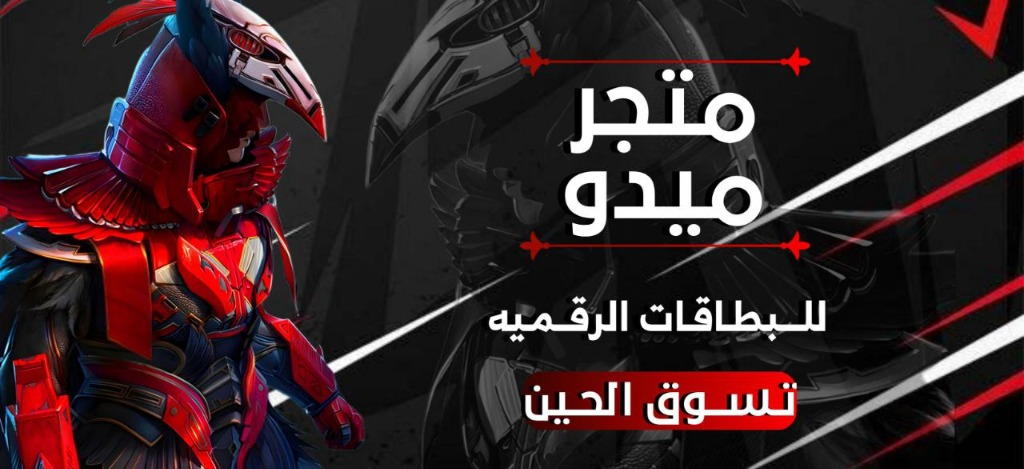
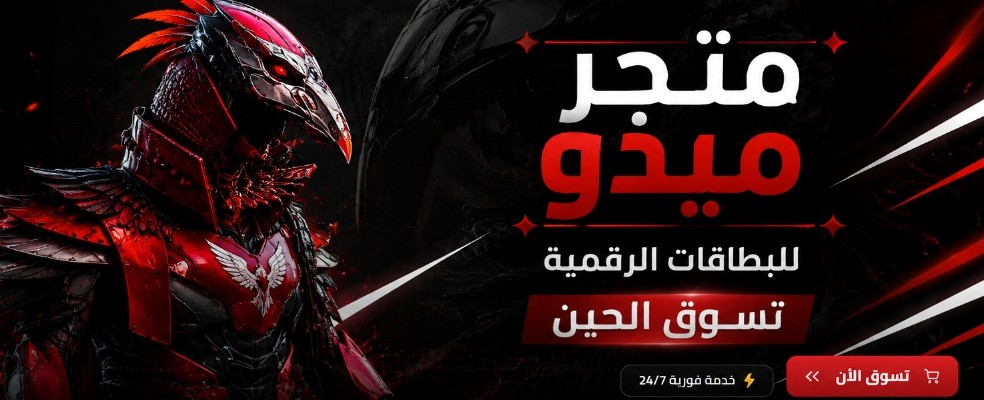
Implement exact hero design with 4 cards, trust bar, payment methods, ratings and whatsapp

diff --git a/src/components/home/hero.tsx b/src/components/home/hero.tsx
@@ -6,11 +6,10 @@ import {
   Zap,
   ShieldCheck,
   Headphones,
-  Award,
-  Sparkles,
-  Flame,
-  ArrowLeft,
-  ChevronLeft,
+  Tag,
+  Star,
+  Shield,
+  MessageCircle,
 } from "lucide-react";
 
 export function Hero() {
@@ -18,119 +17,80 @@ export function Hero() {
     {
       icon: Zap,
       title: "تنفيذ فوري وسريع",
-      subtitle: "خلال دقائق معدودة",
-      color: "from-amber-500/20 to-amber-500/5",
-      borderColor: "border-amber-500/30",
-      textColor: "text-amber-400",
+      subtitle: "يتم تنفيذ طلبك في دقائق",
     },
     {
       icon: ShieldCheck,
       title: "دفع آمن 100%",
-      subtitle: "فودافون كاش، انستاباي، فوري وبطاقات",
-      color: "from-emerald-500/20 to-emerald-500/5",
-      borderColor: "border-emerald-500/30",
-      textColor: "text-emerald-400",
+      subtitle: "جميع طرق الدفع متاحة وآمنة",
     },
     {
       icon: Headphones,
       title: "دعم فني متواصل 24/7",
-      subtitle: "فريق جاهز لخدمتك على مدار الساعة",
-      color: "from-blue-500/20 to-blue-500/5",
-      borderColor: "border-blue-500/30",
-      textColor: "text-blue-400",
+      subtitle: "فريق دعم جاهز لخدمتك",
     },
     {
-      icon: Award,
+      icon: Tag,
       title: "أفضل أسعار السوق",
-      subtitle: "عروض مستمرة وخصومات حصرية",
-      color: "from-red-500/20 to-red-500/5",
-      borderColor: "border-red-500/30",
-      textColor: "text-[#DF0112]",
+      subtitle: "أرخص الأسعار وأفضل العروض",
     },
   ];
 
+  const avatars = [
+    "https://images.unsplash.com/photo-1534528741775-53994a69daeb?w=64&h=64&fit=crop&crop=faces",
+    "https://images.unsplash.com/photo-1507003211169-0a1dd7228f2d?w=64&h=64&fit=crop&crop=faces",
+    "https://images.unsplash.com/photo-1500648767791-00dcc994a43e?w=64&h=64&fit=crop&crop=faces",
+    "https://images.unsplash.com/photo-1494790108377-be9c29b29330?w=64&h=64&fit=crop&crop=faces",
+    "https://images.unsplash.com/photo-1517841905240-472988babdf9?w=64&h=64&fit=crop&crop=faces",
+  ];
+
   return (
-    <section className="relative w-full bg-[#08090d] pt-4 pb-8 overflow-hidden">
+    <section className="relative w-full bg-[#08090d] pt-3 pb-8 overflow-hidden">
       {/* Dynamic Ambient Red Spotlight */}
-      <div className="pointer-events-none absolute top-0 start-1/2 -translate-x-1/2 w-full max-w-5xl h-[450px] bg-[radial-gradient(ellipse_at_top,_rgba(223,1,18,0.25)_0%,_rgba(223,1,18,0.06)_50%,_transparent_75%)]" />
+      <div className="pointer-events-none absolute top-0 start-1/2 -translate-x-1/2 w-full max-w-6xl h-[500px] bg-[radial-gradient(ellipse_at_top,_rgba(223,1,18,0.22)_0%,_rgba(223,1,18,0.05)_50%,_transparent_75%)]" />
 
-      <div className="relative mx-auto w-full max-w-6xl px-4 sm:px-6 lg:px-8">
+      <div className="relative mx-auto w-full max-w-7xl px-3 sm:px-5 md:px-8">
         
-        {/* Top Status Bar Tag */}
+        {/* Master Esports Hero Banner */}
         <motion.div
-          initial={{ opacity: 0, y: -10 }}
+          initial={{ opacity: 0, y: 15 }}
           animate={{ opacity: 1, y: 0 }}
-          transition={{ duration: 0.4 }}
-          className="mb-3.5 flex items-center justify-between gap-2 flex-wrap"
+          transition={{ duration: 0.5 }}
+          className="relative group rounded-2xl md:rounded-3xl overflow-hidden border border-red-500/25 bg-[#050608] shadow-[0_15px_70px_rgba(223,1,18,0.25)] hover:shadow-[0_20px_80px_rgba(223,1,18,0.38)] transition-all duration-300"
         >
-          <div className="inline-flex items-center gap-2 rounded-full border border-red-500/30 bg-red-950/40 px-3.5 py-1 text-xs font-bold text-red-300 backdrop-blur-md shadow-sm">
-            <span className="flex size-2 rounded-full bg-[#DF0112] animate-ping" />
-            <span className="flex size-2 -ms-3 rounded-full bg-[#DF0112]" />
-            <Flame className="size-3.5 text-amber-400 ms-1" />
-            <span>متجر ميدو الرسمي — شحن فوري 24/7 مع ضمان كامل</span>
-          </div>
-
           <Link
             href="/products"
-            className="inline-flex items-center gap-1.5 text-xs font-bold text-slate-300 hover:text-white transition group"
+            className="block relative w-full aspect-[984/400] overflow-hidden cursor-pointer"
+            title="متجر ميدو للبطاقات الرقمية — اضغط للتسوق"
           >
-            <span>استعرض جميع المنتجات والشدات</span>
-            <ChevronLeft className="size-4 text-[#DF0112] transition-transform group-hover:-translate-x-1" />
+            {/* eslint-disable-next-line @next/next/no-img-element */}
+            <img
+              src="/images/medo-hero-banner.jpg"
+              alt="متجر ميدو للبطاقات الرقمية - تسوق الحين"
+              className="w-full h-full object-cover transition-all duration-700 ease-out group-hover:scale-[1.012] [image-rendering:-webkit-optimize-contrast]"
+              loading="eager"
+            />
+            {/* Subtle interactive sheen */}
+            <div className="pointer-events-none absolute inset-0 bg-gradient-to-t from-red-950/20 via-transparent to-transparent opacity-0 group-hover:opacity-100 transition-opacity duration-300" />
           </Link>
         </motion.div>
 
-        {/* Master Esports Hero Banner */}
-        <motion.div
-          initial={{ opacity: 0, scale: 0.98 }}
-          animate={{ opacity: 1, scale: 1 }}
-          transition={{ duration: 0.5 }}
-          className="relative group rounded-2xl md:rounded-[2.2rem] p-[2px] bg-gradient-to-br from-red-600/70 via-red-900/30 to-red-600/70 shadow-[0_15px_70px_rgba(223,1,18,0.32)] hover:shadow-[0_20px_90px_rgba(223,1,18,0.48)] transition-all duration-500"
-        >
-          {/* Tactical Gaming Corner Accents */}
-          <div className="pointer-events-none absolute -top-1 -start-1 size-5 border-t-2 border-s-2 border-red-500 rounded-tl-lg z-20" />
-          <div className="pointer-events-none absolute -top-1 -end-1 size-5 border-t-2 border-e-2 border-red-500 rounded-tr-lg z-20" />
-          <div className="pointer-events-none absolute -bottom-1 -start-1 size-5 border-b-2 border-s-2 border-red-500 rounded-bl-lg z-20" />
-          <div className="pointer-events-none absolute -bottom-1 -end-1 size-5 border-b-2 border-e-2 border-red-500 rounded-br-lg z-20" />
-
-          <div className="relative overflow-hidden rounded-[calc(1rem-1px)] md:rounded-[calc(2.2rem-2px)] bg-[#050608]">
-            <Link
-              href="/products"
-              className="block relative w-full aspect-[1024/469] overflow-hidden cursor-pointer"
-              title="متجر ميدو للبطاقات الرقمية — اضغط للتسوق"
-            >
-              {/* eslint-disable-next-line @next/next/no-img-element */}
-              <img
-                src="/images/medo-hero-banner.jpg"
-                alt="متجر ميدو للبطاقات الرقمية - تسوق الحين"
-                className="w-full h-full object-cover transition-all duration-700 ease-out group-hover:scale-[1.012] [image-rendering:-webkit-optimize-contrast] contrast-[1.04] saturate-[1.06] brightness-[1.02]"
-                loading="eager"
-              />
-              
-              {/* Subtle Edge Vignette */}
-              <div className="pointer-events-none absolute inset-0 ring-1 ring-inset ring-white/10 rounded-[calc(1rem-1px)] md:rounded-[calc(2.2rem-2px)]" />
-              
-              {/* Interactive subtle sheen shimmer on hover */}
-              <div className="pointer-events-none absolute inset-0 bg-gradient-to-t from-red-950/20 via-transparent to-transparent opacity-0 group-hover:opacity-100 transition-opacity duration-300" />
-            </Link>
-          </div>
-        </motion.div>
-
-        {/* Feature Badges Bar */}
+        {/* 4 Feature Badges Grid */}
         <motion.div
           initial={{ opacity: 0, y: 15 }}
           animate={{ opacity: 1, y: 0 }}
           transition={{ duration: 0.5, delay: 0.15 }}
-          className="mt-5 sm:mt-6 grid grid-cols-2 lg:grid-cols-4 gap-3 sm:gap-4"
+          className="mt-4 sm:mt-5 grid grid-cols-2 lg:grid-cols-4 gap-3 sm:gap-4"
         >
           {features.map((item, idx) => {
             const Icon = item.icon;
             return (
               <div
                 key={idx}
-                className="flex items-center gap-3 sm:gap-3.5 rounded-2xl border border-white/10 bg-[#10121a]/85 p-3.5 sm:p-4 backdrop-blur-md transition-all duration-200 hover:border-red-500/40 hover:bg-[#151724] hover:-translate-y-0.5"
+                className="flex items-center gap-3 sm:gap-3.5 rounded-2xl border border-white/10 bg-[#0d0f15]/90 p-3.5 sm:p-4 backdrop-blur-md transition-all duration-200 hover:border-red-500/40 hover:bg-[#131622] hover:-translate-y-0.5"
               >
-                <div className={`flex size-10 sm:size-11 shrink-0 items-center justify-center rounded-xl bg-gradient-to-br ${item.color} border ${item.borderColor} ${item.textColor} shadow-inner`}>
-                  <Icon className="size-5" />
+                <div className="flex size-11 sm:size-12 shrink-0 items-center justify-center rounded-full bg-red-950/30 border border-red-500/30 text-[#DF0112] shadow-inner">
+                  <Icon className="size-5 sm:size-5.5" />
                 </div>
                 <div className="flex flex-col min-w-0">
                   <span className="text-xs sm:text-sm font-black text-white truncate">
@@ -144,6 +104,102 @@ export function Hero() {
             );
           })}
         </motion.div>
+
+        {/* Bottom Trust & Payment Bar */}
+        <motion.div
+          initial={{ opacity: 0, y: 15 }}
+          animate={{ opacity: 1, y: 0 }}
+          transition={{ duration: 0.5, delay: 0.25 }}
+          className="mt-4 rounded-2xl border border-white/10 bg-[#0d0f15]/90 p-3.5 sm:p-4 backdrop-blur-md flex flex-col md:flex-row items-center justify-between gap-4"
+        >
+          {/* Left in RTL: Payment Methods */}
+          <div className="flex items-center gap-3 flex-wrap justify-center md:justify-start">
+            <div className="flex items-center gap-1.5 text-slate-400 text-xs font-bold">
+              <Shield className="size-4 text-emerald-400" />
+              <span>طرق دفع مضمونة وآمنة</span>
+            </div>
+
+            <div className="flex items-center gap-1.5 flex-wrap">
+              {/* InstaPay */}
+              <div className="flex items-center justify-center px-2.5 py-1 rounded-md bg-[#4b1d6e]/90 text-white text-[11px] font-black tracking-wide border border-purple-500/30">
+                instaPay
+              </div>
+              {/* Vodafone Cash */}
+              <div className="flex items-center justify-center px-2 py-1 rounded-md bg-[#e60000] text-white text-[11px] font-black border border-red-400/40">
+                vodafone cash
+              </div>
+              {/* Fawry */}
+              <div className="flex items-center justify-center px-2.5 py-1 rounded-md bg-[#ffcc00] text-black text-[11px] font-black border border-amber-400/40">
+                Fawry
+              </div>
+              {/* Contact */}
+              <div className="flex items-center justify-center px-2.5 py-1 rounded-md bg-[#004b93] text-white text-[11px] font-black border border-blue-400/40">
+                Contact
+              </div>
+              {/* VISA */}
+              <div className="flex items-center justify-center px-2.5 py-1 rounded-md bg-[#1a1f71] text-white text-[11px] font-black tracking-wider border border-blue-300/30">
+                VISA
+              </div>
+              {/* Mastercard */}
+              <div className="flex items-center justify-center px-2 py-1 rounded-md bg-[#222329] border border-white/15">
+                <div className="flex -space-x-1.5 rtl:space-x-reverse">
+                  <span className="size-3.5 rounded-full bg-[#eb001b] inline-block opacity-90" />
+                  <span className="size-3.5 rounded-full bg-[#f79e1b] inline-block opacity-90" />
+                </div>
+              </div>
+            </div>
+          </div>
+
+          {/* Center in RTL: Ratings & Over 10,000 Customers */}
+          <div className="flex items-center gap-3.5">
+            <div className="flex items-center -space-x-2 rtl:space-x-reverse">
+              {avatars.map((img, i) => (
+                // eslint-disable-next-line @next/next/no-img-element
+                <img
+                  key={i}
+                  src={img}
+                  alt={`Customer ${i + 1}`}
+                  className="size-7 rounded-full object-cover border-2 border-[#0d0f15]"
+                />
+              ))}
+            </div>
+
+            <div className="flex flex-col items-center sm:items-start text-center sm:text-right">
+              <div className="flex items-center gap-1 text-amber-400">
+                {[...Array(5)].map((_, i) => (
+                  <Star key={i} className="size-3 fill-amber-400 text-amber-400" />
+                ))}
+              </div>
+              <span className="text-[11px] text-slate-400 font-medium">
+                تقييم 4.9 من أكثر من 10,000 عميل
+              </span>
+            </div>
+
+            <div className="flex flex-col items-center px-2.5 py-0.5 rounded-lg bg-red-950/30 border border-red-500/20">
+              <span className="text-sm font-black text-[#DF0112]">+10K</span>
+              <span className="text-[10px] text-slate-400">عميل راضي</span>
+            </div>
+          </div>
+
+          {/* Right in RTL: WhatsApp Support Link */}
+          <a
+            href="https://wa.me/201000000000"
+            target="_blank"
+            rel="noopener noreferrer"
+            className="flex items-center gap-2.5 hover:opacity-90 transition group shrink-0"
+          >
+            <div className="flex flex-col text-left rtl:text-right">
+              <span className="text-[11px] text-slate-400 font-medium">تحتاج مساعدة؟</span>
+              <span className="text-xs sm:text-sm font-bold text-white group-hover:text-emerald-400 transition-colors">
+                تواصل معنا الآن
+              </span>
+            </div>
+            <div className="flex size-10 items-center justify-center rounded-full bg-[#25D366] text-white shadow-lg shadow-green-950/40 group-hover:scale-105 transition-transform">
+              <MessageCircle className="size-5 fill-white text-white" />
+            </div>
+          </a>
+        </motion.div>
+
       </div>
     </section>
   );
